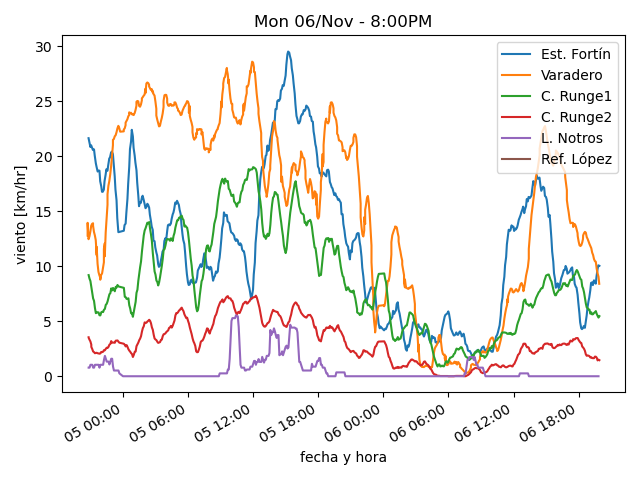
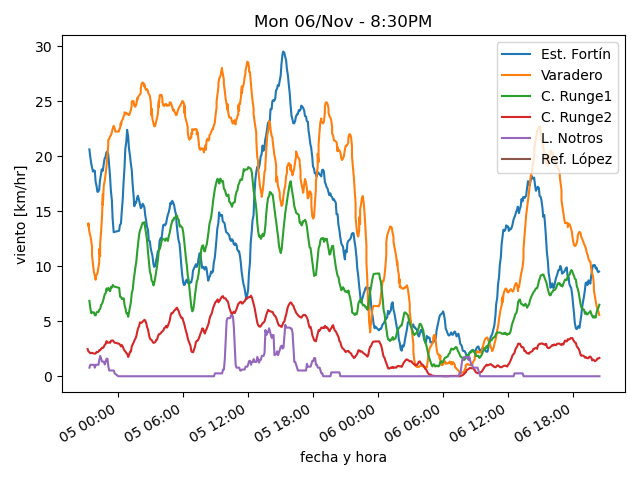
actualiza datos

diff --git a/estaciones/estacion3.html b/estaciones/estacion3.html
@@ -18,32 +18,32 @@
     </tr>
     <tr>
      <td class="stats_data">
-      7:54PM
+      8:24PM
      </td>
     </tr>
     <tr>
      <td class="stats_data">
-      8.2⁰C
+      8.1⁰C
      </td>
     </tr>
     <tr>
      <td class="stats_data">
-      7.1⁰C
+      6.3⁰C
      </td>
     </tr>
     <tr>
      <td class="stats_data">
-      92.7%
+      88.4%
      </td>
     </tr>
     <tr>
      <td class="stats_data">
-      1002.64hPa
+      1002.54hPa
      </td>
     </tr>
     <tr>
      <td class="stats_data">
-      5.0/6.6 km/hr WNW
+      5.4/7.8 km/hr WNW
      </td>
     </tr>
     <tr>
@@ -58,7 +58,7 @@
     </tr>
     <tr>
      <td class="stats_data">
-      80.6 W/m²
+      14.7 W/m²
      </td>
     </tr>
    </tbody>

diff --git a/estaciones/estacion4.html b/estaciones/estacion4.html
@@ -18,32 +18,32 @@
     </tr>
     <tr>
      <td class="stats_data">
-      7:54PM
+      8:24PM
      </td>
     </tr>
     <tr>
      <td class="stats_data">
-      8.4⁰C
+      8.1⁰C
      </td>
     </tr>
     <tr>
      <td class="stats_data">
-      6.6⁰C
+      5.7⁰C
      </td>
     </tr>
     <tr>
      <td class="stats_data">
-      88.4%
+      84.8%
      </td>
     </tr>
     <tr>
      <td class="stats_data">
-      1011.51hPa
+      1011.41hPa
      </td>
     </tr>
     <tr>
      <td class="stats_data">
-      0.6/1.0 km/hr SW
+      1.3/1.9 km/hr SSW
      </td>
     </tr>
     <tr>
@@ -58,7 +58,7 @@
     </tr>
     <tr>
      <td class="stats_data">
-      72.7 W/m²
+      11.6 W/m²
      </td>
     </tr>
    </tbody>

diff --git a/estaciones/estacion2.html b/estaciones/estacion2.html
@@ -18,22 +18,22 @@
     </tr>
     <tr>
      <td class="stats_data">
-      7:53PM
+      8:23PM
      </td>
     </tr>
     <tr>
      <td class="stats_data">
-      9.3⁰C
+      9.1⁰C
      </td>
     </tr>
     <tr>
      <td class="stats_data">
-      7.7⁰C
+      7.5⁰C
      </td>
     </tr>
     <tr>
      <td class="stats_data">
-      89.7%
+      90.0%
      </td>
     </tr>
     <tr>
@@ -43,7 +43,7 @@
     </tr>
     <tr>
      <td class="stats_data">
-      4.5/5.7 km/hr W
+      2.0/3.0 km/hr WSW
      </td>
     </tr>
     <tr>
@@ -58,7 +58,7 @@
     </tr>
     <tr>
      <td class="stats_data">
-      76.7 W/m²
+      11.6 W/m²
      </td>
     </tr>
    </tbody>

diff --git a/estaciones/estacion5.html b/estaciones/estacion5.html
@@ -18,27 +18,27 @@
     </tr>
     <tr>
      <td class="stats_data">
-      7:50PM
+      8:25PM
      </td>
     </tr>
     <tr>
      <td class="stats_data">
-      8.8⁰C
+      7.9⁰C
      </td>
     </tr>
     <tr>
      <td class="stats_data">
-      7.0⁰C
+      6.3⁰C
      </td>
     </tr>
     <tr>
      <td class="stats_data">
-      89.0%
+      90.0%
      </td>
     </tr>
     <tr>
      <td class="stats_data">
-      1013.0hPa
+      1013.17hPa
      </td>
     </tr>
     <tr>
@@ -48,7 +48,7 @@
     </tr>
     <tr>
      <td class="stats_data">
-      2.54 / 0.25 mm
+      2.54 / 0.0 mm
      </td>
     </tr>
     <tr>

diff --git a/estaciones/estacion1.html b/estaciones/estacion1.html
@@ -18,17 +18,17 @@
     </tr>
     <tr>
      <td class="stats_data">
-      7:54PM
+      8:22PM
      </td>
     </tr>
     <tr>
      <td class="stats_data">
-      9.2⁰C
+      9.1⁰C
      </td>
     </tr>
     <tr>
      <td class="stats_data">
-      6.3⁰C
+      6.2⁰C
      </td>
     </tr>
     <tr>
@@ -43,7 +43,7 @@
     </tr>
     <tr>
      <td class="stats_data">
-      8.0/10.2 km/hr WSW
+      6.3/8.0 km/hr SSW
      </td>
     </tr>
     <tr>
@@ -58,7 +58,7 @@
     </tr>
     <tr>
      <td class="stats_data">
-      21.0 W/m²
+      14.0 W/m²
      </td>
     </tr>
    </tbody>
